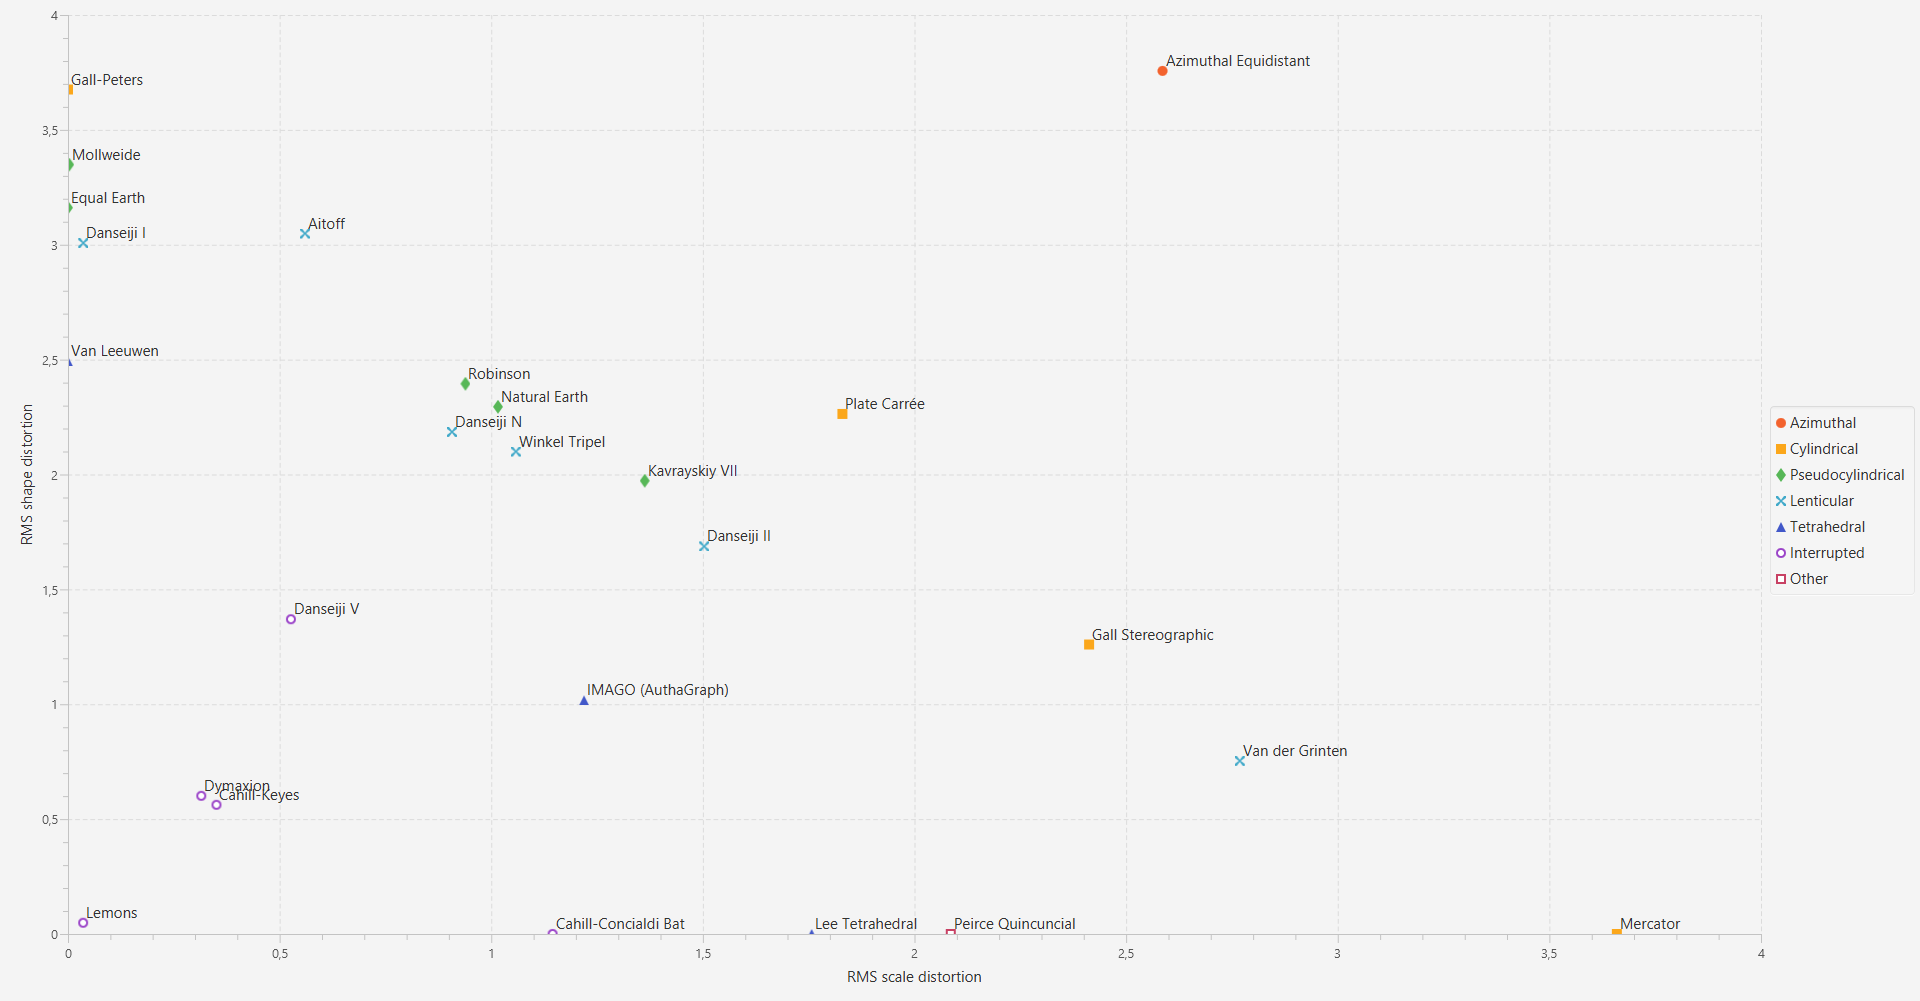
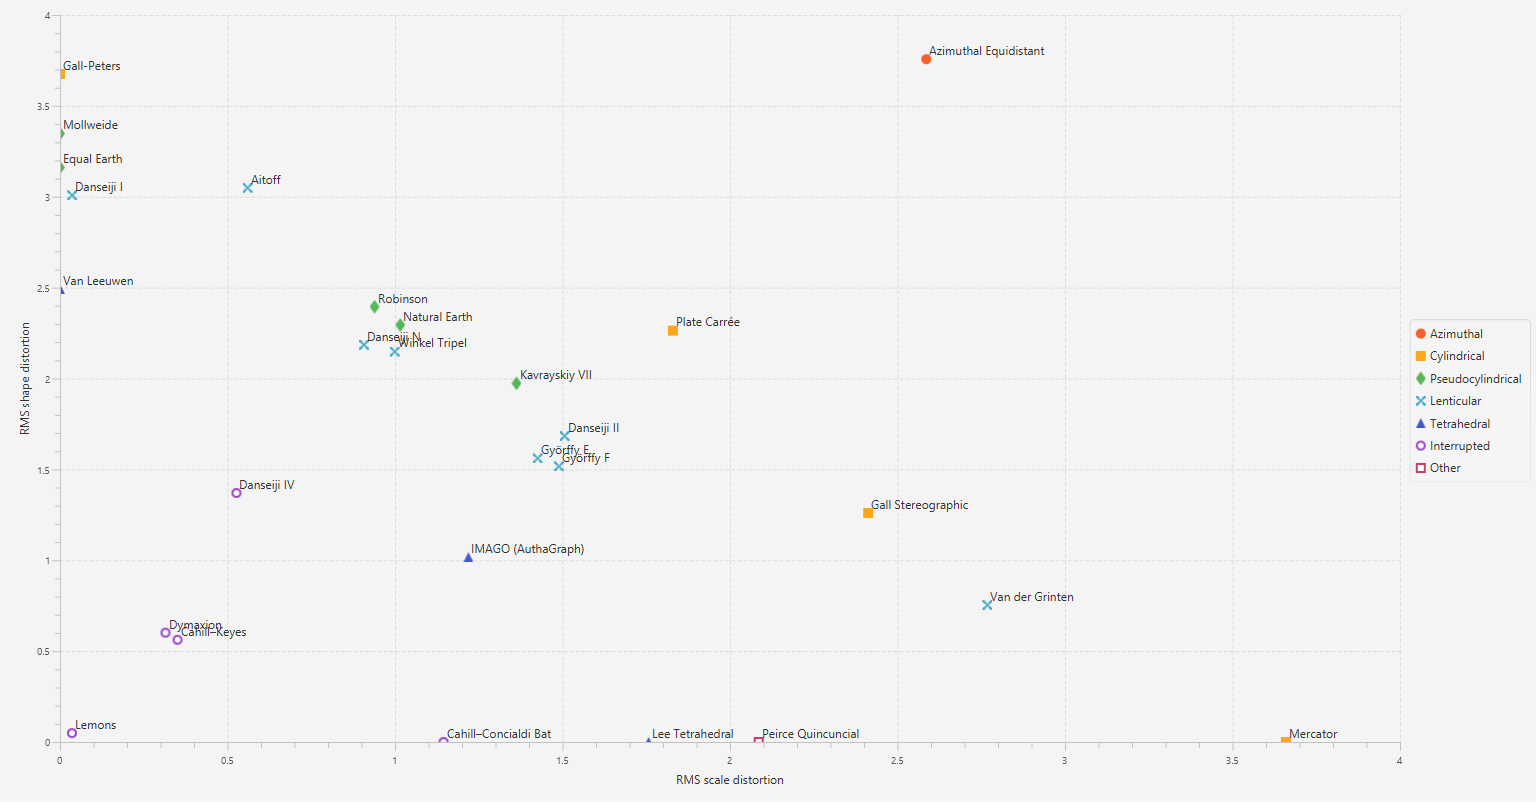
New computer, new plots
I added some Gyoerffy projections to the plot, and updated it for the new default value for winkel tripel. Also updated the readme and classpath file.

diff --git a/src/apps/MapPlotter.java b/src/apps/MapPlotter.java
@@ -52,6 +52,7 @@ import maps.ArbitraryPseudocylindrical;
 import maps.Azimuthal;
 import maps.Cylindrical;
 import maps.EqualEarth;
+import maps.Gyorffy;
 import maps.Lenticular;
 import maps.Misc;
 import maps.Octohedral;
@@ -80,11 +81,11 @@ public class MapPlotter extends Application {
 			Pseudocylindrical.KAVRAYSKIY_VII, EqualEarth.EQUAL_EARTH };
 	private static final Projection[] LENTICULAR = { Lenticular.AITOFF, Lenticular.VAN_DER_GRINTEN,
 			WinkelTripel.WINKEL_TRIPEL, Meshed.DANSEIJI_N, Meshed.DANSEIJI_I,
-			Meshed.DANSEIJI_II };
+			Meshed.DANSEIJI_II, Gyorffy.E, Gyorffy.F };
 	private static final Projection[] TETRAHEDRAL = { Polyhedral.LEE_TETRAHEDRAL_RECTANGULAR,
 			Polyhedral.AUTHAGRAPH, Polyhedral.VAN_LEEUWEN };
 	private static final Projection[] CHEATY = { Pseudocylindrical.LEMONS, Octohedral.CAHILL_KEYES,
-			Polyhedral.DYMAXION, Octohedral.CAHILL_CONCIALDI, Meshed.DANSEIJI_V };
+			Polyhedral.DYMAXION, Octohedral.CAHILL_CONCIALDI, Meshed.DANSEIJI_IV };
 	private static final Projection[] OTHER = { Misc.PEIRCE_QUINCUNCIAL };
 	
 	

diff --git a/README.md b/README.md
@@ -51,3 +51,4 @@ While I wrote all of the code in this repository myself, and I created several o
 * **Robert Gray** for his [research on Buckminster Fuller's map projection](http://www.rwgrayprojects.com/rbfnotes/toc.html),
 * **AuthaGraph Co., Ltd.** for their [vague information about their map projection](http://www.authagraph.com/projects/description/%E3%80%90%E4%BD%9C%E5%93%81%E8%A7%A3%E8%AA%AC%E3%80%91%E8%A8%98%E4%BA%8B01/?lang=en), and
 * **Wikipedia** for its [substantial collection of map projection information and equations](https://en.wikipedia.org/wiki/List_of_map_projections).
+* **John P. Snyder** for his even more substantial collection of map projection information and equations.
